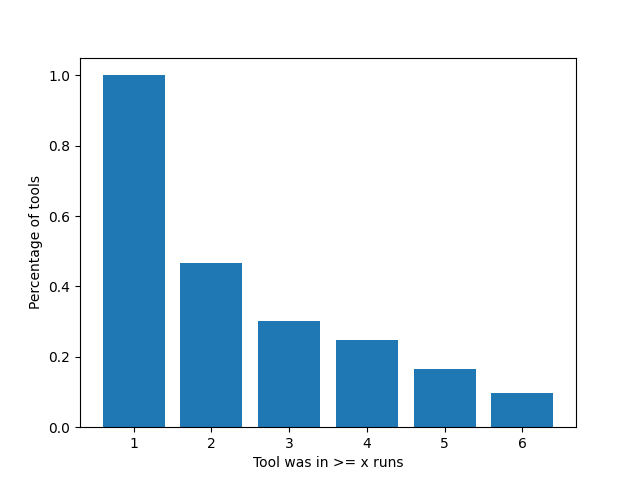
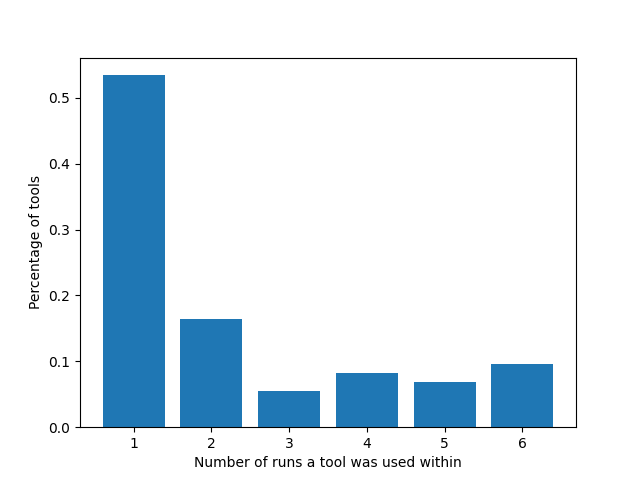
update graphs

diff --git a/src/create-graphs.py b/src/create-graphs.py
@@ -181,54 +181,22 @@ for tool in tools_used_within_run.keys():
     tool_runs  = tools_used_within_run[tool]
     cmds[tool]['within_runs_pct'] = len(tool_runs) / len(files)
 
-# update duration depending upon prompt size
-x = []
-y = []
+def update_duration_total_tokens(round):
+    x = []
+    y = []
 
-for idx in round.keys():
-    i = round[idx]
+    for idx in round.keys():
+        i = round[idx]
 
-    for j in i['update_duration']:
-        x.append(j[0])
-        y.append(j[1])
+        for j in i['update_duration_total_tokens']:
+            x.append(j[0])
+            y.append(j[1])
 
-plt.scatter(x, y, marker="*")
-plt.xlabel('token count in update prompt')
-plt.ylabel('duration in sec')
-plt.savefig('update_duration.png')
-plt.clf()
-
-x = []
-y = []
-
-for idx in round.keys():
-    i = round[idx]
-
-    for j in i['update_duration_total_tokens']:
-        x.append(j[0])
-        y.append(j[1])
-
-plt.scatter(x, y, marker="*")
-plt.xlabel('prompt + copmletion tokens')
-plt.ylabel('duration in sec')
-plt.savefig('update_duration_total_tokens.png')
-plt.clf()
-
-x = []
-y = []
-
-for idx in round.keys():
-    i = round[idx]
-
-    for j in i['update_duration_costs']:
-        x.append(j[0])
-        y.append(j[1])
-
-plt.scatter(x, y, marker="*")
-plt.xlabel('query cost')
-plt.ylabel('duration in sec')
-plt.savefig('update_duration_cost.png')
-plt.clf()
+    plt.scatter(x, y, marker="*")
+    plt.xlabel('Total Token Count of Query (Sum of Prompt and Completion Tokens)')
+    plt.ylabel('Query Round-Trip Time in Seconds')
+    plt.savefig('update_duration_total_tokens.png')
+    plt.clf()
 
 def state_size(round):
     # state size
@@ -243,76 +211,64 @@ def state_size(round):
             y.append(j)
 
     plt.scatter(x, y, marker="*")
-    plt.xlabel('strategy round')
-    plt.ylabel('state size (plan) in characters')
+    plt.xlabel('Planner Round')
+    plt.xticks(range(0, 70, 10), range(0, 70, 10))
+    plt.ylabel('State/Pentest-Task_Tree Size (Bytes)')
     plt.savefig('state_size.png')
     plt.clf()
 
-# state size (using input-tokens for next_task as proxy)
-def state_size_in_tokens(round):
-    x = []
-    y = []
+# which graphs to use
+
+update_duration_total_tokens(round)  # input-tokens and cost did look similar
+state_size(round)
+
+def duration(round):
+    x_upd = []
+    y_upd = []
+    x_next_task = []
+    y_next_task = []
 
     for idx in round.keys():
         i = round[idx]
 
-        if 'state_tokens' in i:
-            for j in i['state_tokens']:
-                x.append(idx)
-                y.append(j)
+        if 'duration_updated' in i:
+            for j in i['duration_updated']:
+                x_upd.append(idx)
+                y_upd.append(j)
 
-    plt.scatter(x, y, marker="*")
+        if 'duration_next_task' in i:
+            for j in i['duration_next_task']:
+                x_next_task.append(idx)
+                y_next_task.append(j)
+
+    plt.scatter(x_upd, y_upd, marker=".")
+    plt.scatter(x_next_task, y_next_task, marker=".")
+
+    print(str(std_dev(y_upd)))
+    print(str(std_dev(y_next_task)))
+
     plt.xlabel('strategy round')
-    plt.ylabel('state size in tokens (using input for next_task as proxy)')
-    plt.savefig('state_size_tokens.png')
+    plt.ylabel('LLM call duration in seconds')
+    plt.savefig('relationship_strategy_update_nexttask.png')
     plt.clf()
 
-x_upd = []
-y_upd = []
-x_next_task = []
-y_next_task = []
 
-for idx in round.keys():
-    i = round[idx]
+    # Combine data into a list
+    data = [y_upd, y_next_task]
 
-    if 'duration_updated' in i:
-        for j in i['duration_updated']:
-            x_upd.append(idx)
-            y_upd.append(j)
+    # Define histogram bins
+    bins = list(range(0, 150, 2))
 
-    if 'duration_next_task' in i:
-        for j in i['duration_next_task']:
-            x_next_task.append(idx)
-            y_next_task.append(j)
+    # Plot the stacked histogram
+    plt.hist(y_upd, bins=bins, stacked=True, label='Update-Plan')
+    plt.hist(y_next_task, bins=bins, stacked=True, label='Next-Task', alpha=0.75)
 
-plt.scatter(x_upd, y_upd, marker=".")
-plt.scatter(x_next_task, y_next_task, marker=".")
-
-print(str(std_dev(y_upd)))
-print(str(std_dev(y_next_task)))
-
-plt.xlabel('strategy round')
-plt.ylabel('LLM call duration in seconds')
-plt.savefig('relationship_strategy_update_nexttask.png')
-plt.clf()
-
-
-# Combine data into a list
-data = [y_upd, y_next_task]
-
-# Define histogram bins
-bins = list(range(0, 150, 2))
-
-# Plot the stacked histogram
-plt.hist(y_upd, bins=bins, stacked=True, label='Update-Plan')
-plt.hist(y_next_task, bins=bins, stacked=True, label='Next-Task', alpha=0.75)
-
-# Add labels, legend, and title
-plt.xlabel('Latency')
-plt.ylabel('Frequency')
-plt.title('Stacked Histogram: Planner LLM Call Latencies')
-plt.legend()
-plt.savefig('update_next_task.png')
+    # Add labels, legend, and title
+    plt.xlabel('Latency')
+    plt.ylabel('Frequency')
+    plt.title('Stacked Histogram: Planner LLM Call Latencies')
+    plt.legend()
+    plt.savefig('update_next_task.png')
 
 
 # histogram of amount of tool calls
@@ -321,8 +277,9 @@ def tool_call_histogram(cmds):
     for cmd in cmds.keys():
         x.append(cmds[cmd]['count'])
 
-    plt.hist(x, bins=50)
-    plt.title("Tool Call frequency")
+    plt.hist(x, bins=51)
+    plt.xlabel("Tool Invocations")
+    plt.ylabel("Amount of Tools")
     plt.savefig('number_of_toolcalls_per_tool.png')
     plt.clf()
 
@@ -336,13 +293,17 @@ def tools_within_runs(cmds):
         x[int(pos)] += 1
         count += 1
 
-    for i in range(1, 7):
-        for j in range(i+1, 7):
-            x[i] += x[j]
+    #for i in range(1, 7):
+    #    for j in range(i+1, 7):
+    #        x[i] += x[j]
 
     x = list(map(lambda i: i/count, x))
     plt.bar( [1, 2, 3, 4, 5, 6], x[1:])
-    plt.xlabel("Tool was in >= x runs")
+    plt.xlabel("Number of runs a tool was used within")
     plt.ylabel("Percentage of tools")
 
     plt.savefig('tools_within_runs.png')
+
+
+tool_call_histogram(cmds)
+tools_within_runs(cmds)
